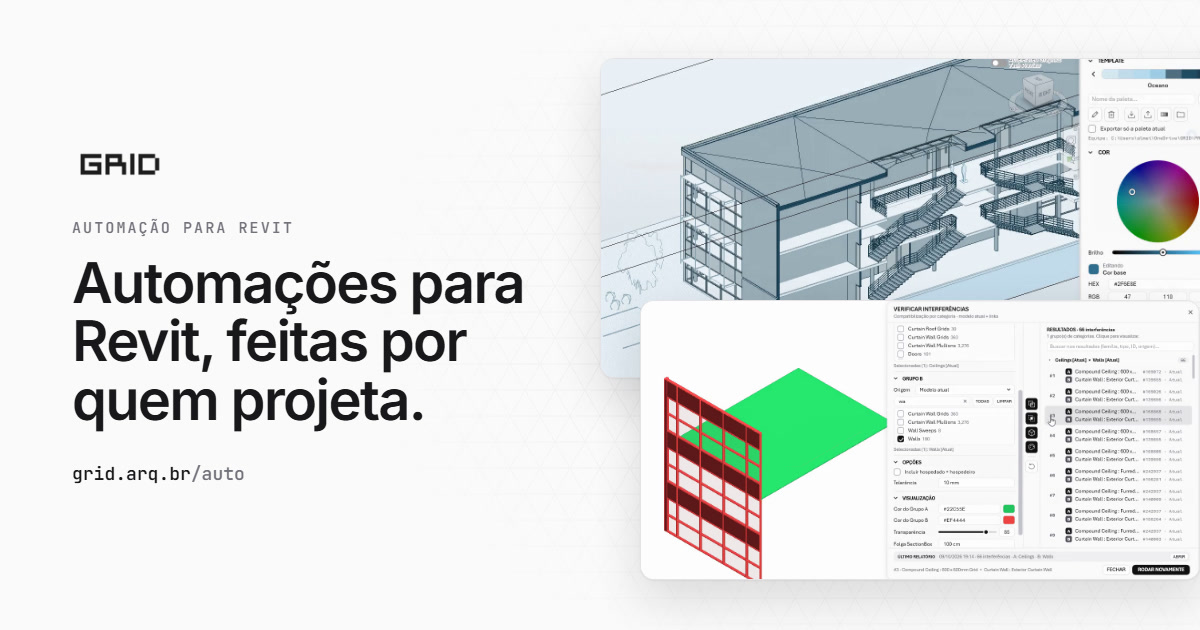
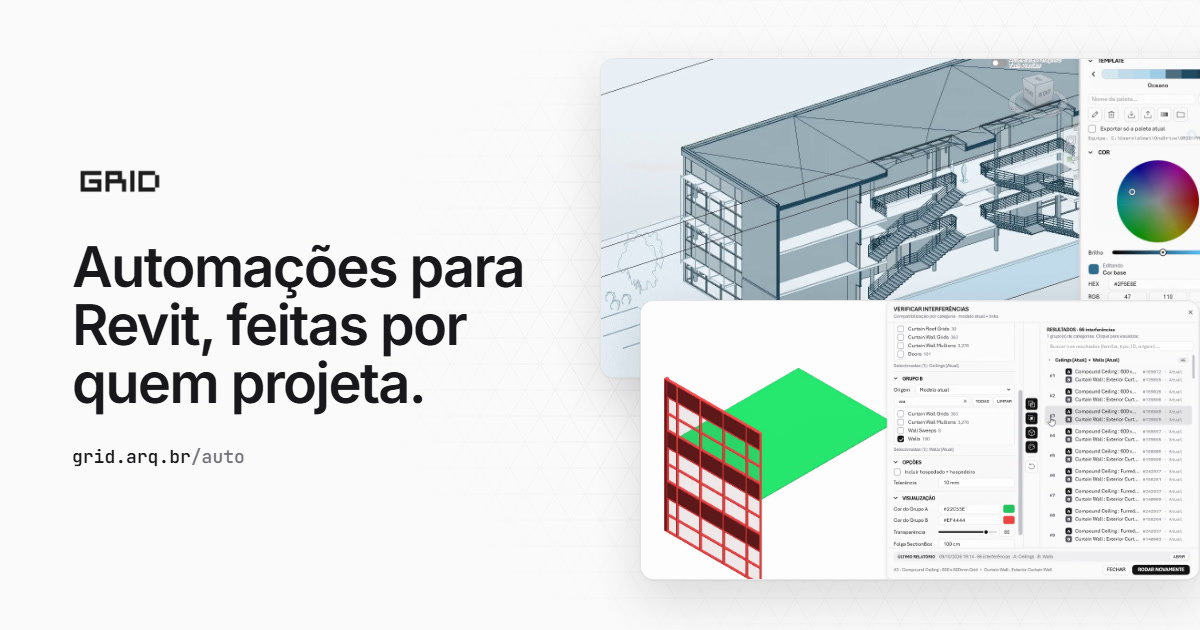
/auto: imagem de prévia sem a linha "Automação para Revit"
og.jpg refeita; o endereço ganhou ?v=2 para WhatsApp e LinkedIn não
mostrarem a versão antiga em cache.

Changed region(s): [[0.0617, 0.3317, 0.4317, 0.7841], [0.0617, 0.2413, 0.1542, 0.3016]]

diff --git a/auto/index.html b/auto/index.html
@@ -12,12 +12,12 @@
     <meta property="og:type" content="website" />
     <meta property="og:site_name" content="GRID" />
     <meta property="og:locale" content="pt_BR" />
-    <meta property="og:image" content="https://grid.arq.br/auto/img/og.jpg" />
+    <meta property="og:image" content="https://grid.arq.br/auto/img/og.jpg?v=2" />
     <meta property="og:image:width" content="1200" />
     <meta property="og:image:height" content="630" />
     <meta property="og:image:alt" content="GRID · Automações para Revit, feitas por quem projeta: ArqViz e Verificar Interferências no Revit" />
     <meta name="twitter:card" content="summary_large_image" />
-    <meta name="twitter:image" content="https://grid.arq.br/auto/img/og.jpg" />
+    <meta name="twitter:image" content="https://grid.arq.br/auto/img/og.jpg?v=2" />
 
     <script>
       // Idioma: ?lang= > escolha salva > idioma do navegador
